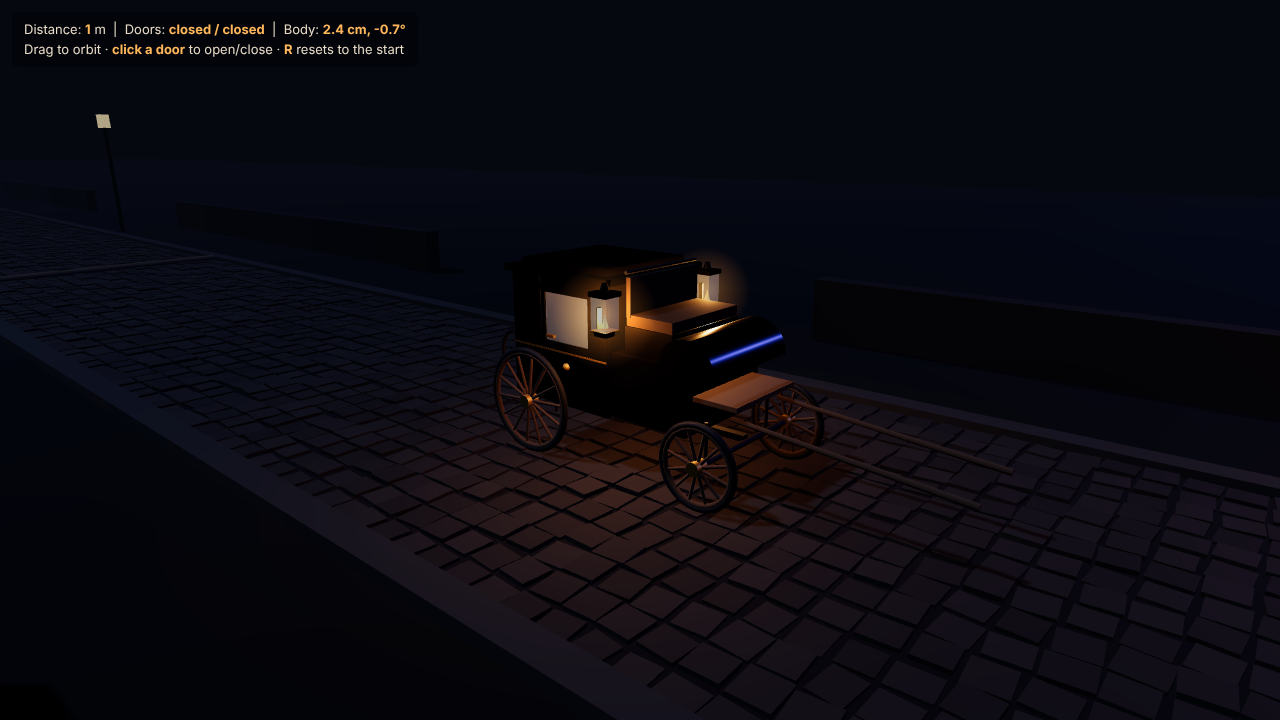
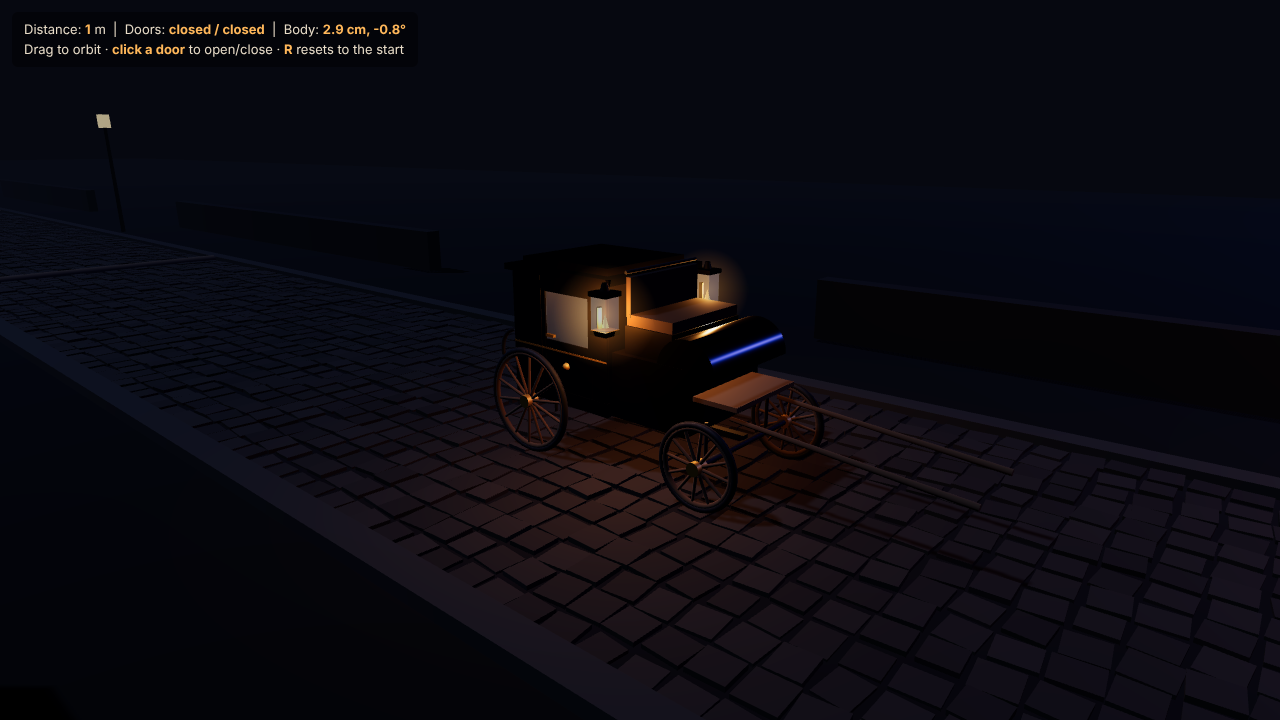
B iter 3-4: softer springs, glass tweak; final judge 0 errors; cost.json + iteration log

diff --git a/runs/claude-code/B/index.html b/runs/claude-code/B/index.html
@@ -205,7 +205,7 @@ const matGold = new THREE.MeshStandardMaterial({ color: 0xc9a24a, roughness: 0.4
 const matIron = new THREE.MeshStandardMaterial({ color: 0x3b3f47, roughness: 0.5, metalness: 0.8 });
 const matWood = new THREE.MeshStandardMaterial({ color: 0x5a4a3a, roughness: 0.8 });
 const matLeather = new THREE.MeshStandardMaterial({ color: 0x2a1e18, roughness: 0.9 });
-const matGlass = new THREE.MeshPhysicalMaterial({ color: 0xbfd8ee, roughness: 0.08, metalness: 0, transparent: true, opacity: 0.3, depthWrite: false, side: THREE.DoubleSide });
+const matGlass = new THREE.MeshPhysicalMaterial({ color: 0xa8c2dc, roughness: 0.3, metalness: 0, transparent: true, opacity: 0.2, depthWrite: false, side: THREE.DoubleSide });
 const matFlame = new THREE.MeshBasicMaterial({ color: 0xffc46a });
 const matLampGlass = new THREE.MeshPhysicalMaterial({ color: 0xffe0b0, roughness: 0.1, transparent: true, opacity: 0.35, side: THREE.DoubleSide });
 
@@ -369,7 +369,7 @@ for (const s of [-1, 1]) for (const x of [REAR_X + 0.15, FRONT_X - 0.1]) {
 
 // ---------- suspension (sprung body on four corner springs) ----------
 const susp = { y: 0, vy: 0, pitch: 0, vp: 0, roll: 0, vr: 0 };
-const K = 38, C = 3.2, M = 1.0, I_P = 0.55, I_R = 0.32;
+const K = 26, C = 2.0, M = 1.0, I_P = 0.55, I_R = 0.32;
 const CORNERS = [
   { x: REAR_X + 0.15, z: -TRACK * 0.9, w: 0 }, { x: REAR_X + 0.15, z: TRACK * 0.9, w: 1 },
   { x: FRONT_X - 0.1, z: -TRACK * 0.9, w: 2 }, { x: FRONT_X - 0.1, z: TRACK * 0.9, w: 3 },

diff --git a/runs/claude-code/B/iterations.md b/runs/claude-code/B/iterations.md
@@ -7,3 +7,9 @@ Input: prompts/B.md verbatim + inputs/carriage.jpg (viewed as an image before wr
 |---|---|---|---|---|---|---|
 | 1 | 10:55 | First full write: periodic cobbled road (InstancedMesh, deterministic hash heights), 5 buried transverse ridges as visible bump geometry, carriage from boxes/cylinders/tori following the drawing (low boot + tall glazed cabin + box seat + two corner lamps + big rear/small front spoked wheels + shafts), hinge-door groups with raycast click, flickering PointLight lamps, 4-corner spring/damper body (heave/pitch/roll) on wheels that read the road envelope, R reset, fog, OrbitControls follow | yes | 0 | t0/t3s/t8s, scratch B1/* | Door-hinge sign was wrong on first write (would swing into the cabin) — caught by reading the code before running, fixed with sed. Probe: a door toggles on click; R works but HUD distance was simTime-based so looked un-reset. Scene far too dark to read the silhouette; open door glass looked opaque. Headless judge: page is heavy (15k instances + 11 point lights) → ~2 fps real throughput. |
 | 2 | 10:59 | Moon 0.55→1.4, ambient ×2, blue rim light, exposure 1.35, fog 0.028→0.02; glass depthWrite off; additive glow sprites on the lamp flames; point lights only on the centre period's posts; HUD shows distance-travelled (resets) and body heave/pitch so the probe can read the suspension | yes | 0 | t0/t3s/t8s, scratch B2/* | Zoomed screenshot finally reads: black brougham, lit box seat, warm lamp glow on the body, cobbles with kerb. HUD time-series shows 1–3 cm heave / ±0.5° pitch from cobbles alone. Bump reaction being probed on a scratch copy that starts at x=20 (first ridge at 22). |
+| 3 | 11:02 | Springs softened (K 38→26, C 3.2→2.0) so the body keeps rocking after a ridge | yes | 0 | scratch B3/* | Bump probe on scratch copy (start x=20.2, ridge at 22): heave 1→7.4 cm, pitch −2.0° as the rear wheel crosses, settles over ~4 s. Close-up probe: both doors toggle independently by click; R → distance 0, doors closed, body settled. Open door glass still reads as a bright beige panel because the lamp PointLight sits right next to it. |
+| 4 | 11:04 | Door/window glass: opacity 0.2, roughness 0.3 (less specular next to the lamp) | yes | 0 | t0/t3s/t8s (final) | Door probe repeated: open/closed → open/open → R resets. Glass now shows the lamp-lit interior through it. Checklist 6/6 by my own judgement → stop. |
+
+**Stop reason:** checklist complete (own judgement). Wall-clock 10:52:15 → 11:05:30 ≈ 13 min.
+
+**Where it got stuck:** nothing blocked. The only logic bug (door hinge sign) was caught by re-reading the code before the first run. The rest was tuning for legibility in a night scene (too dark → raise moon/ambient/exposure, drop fog) and verifying physics that the judge cannot see: I had to add a HUD readout of body heave/pitch and run a scratch copy positioned before the first ridge to prove the suspension reacts to the visible bump geometry. The image input was used once (viewed before writing) — proportions were transcribed by eye into constants; no later iteration went back to the image.
